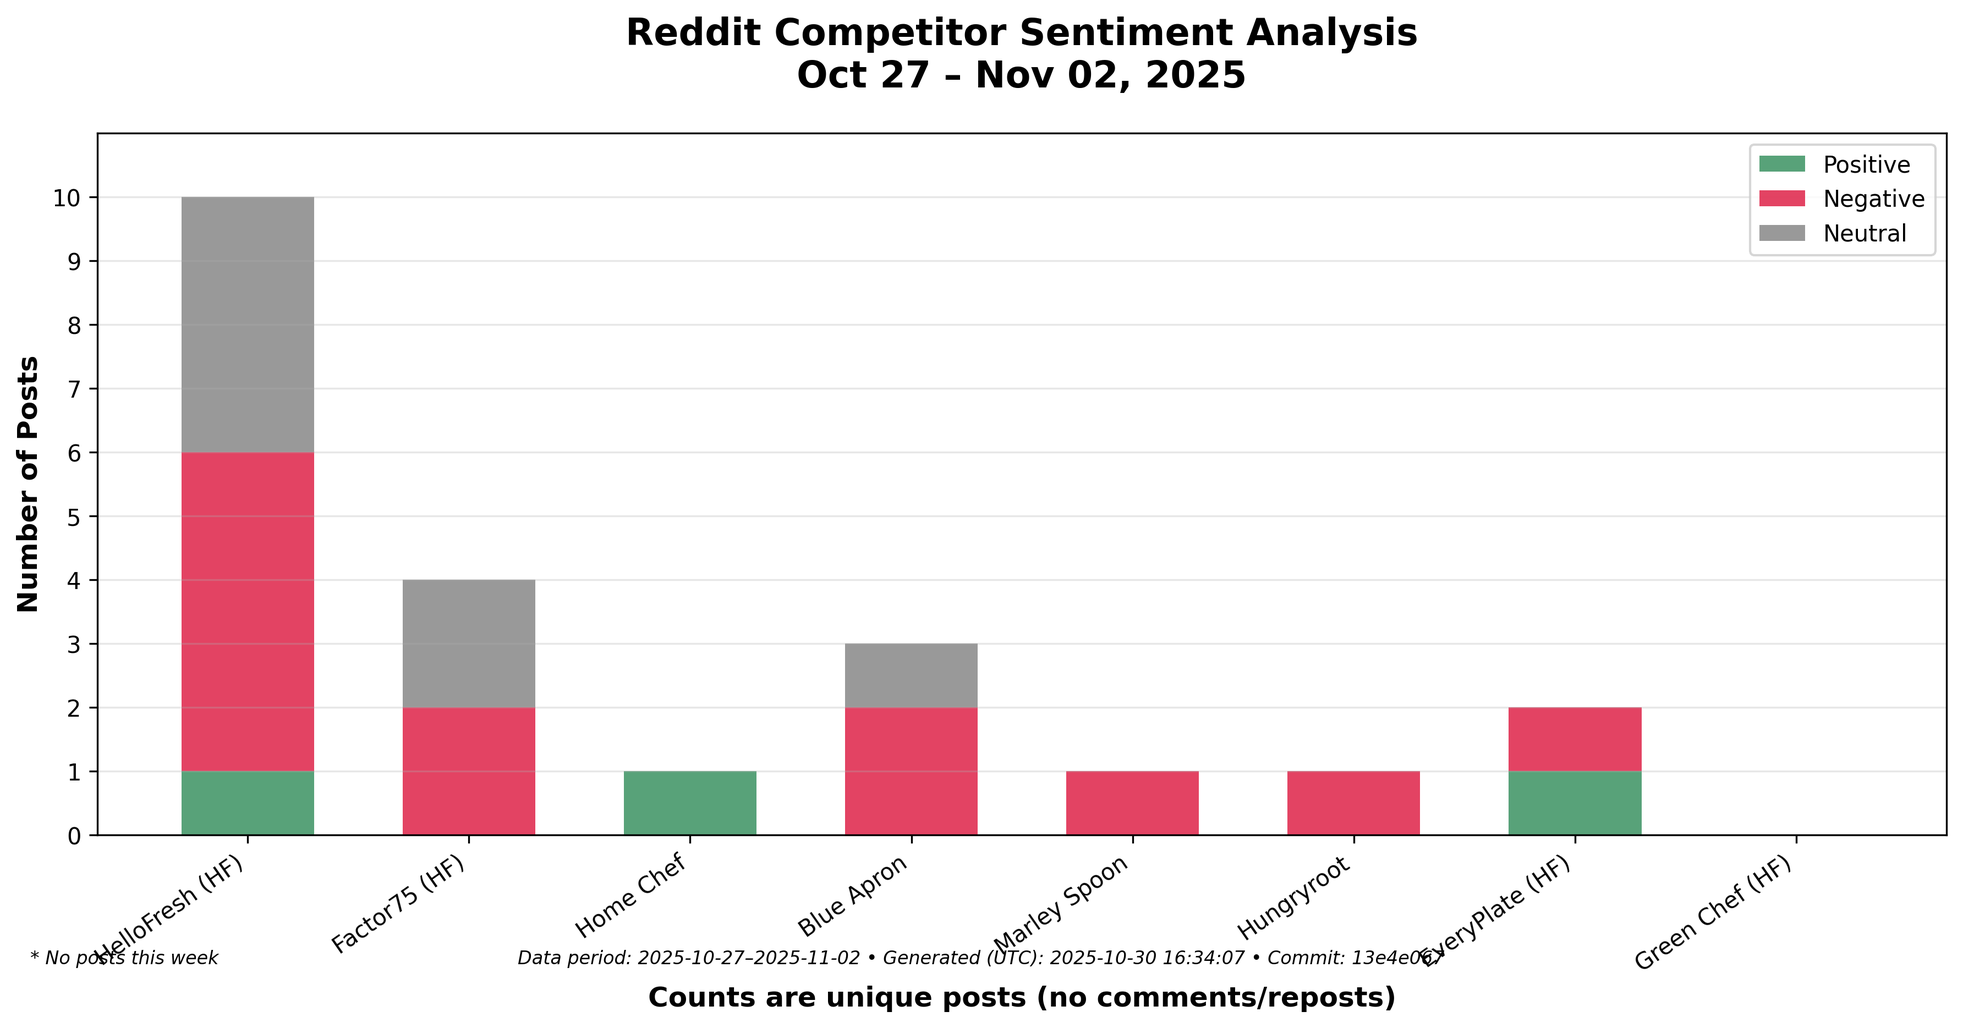
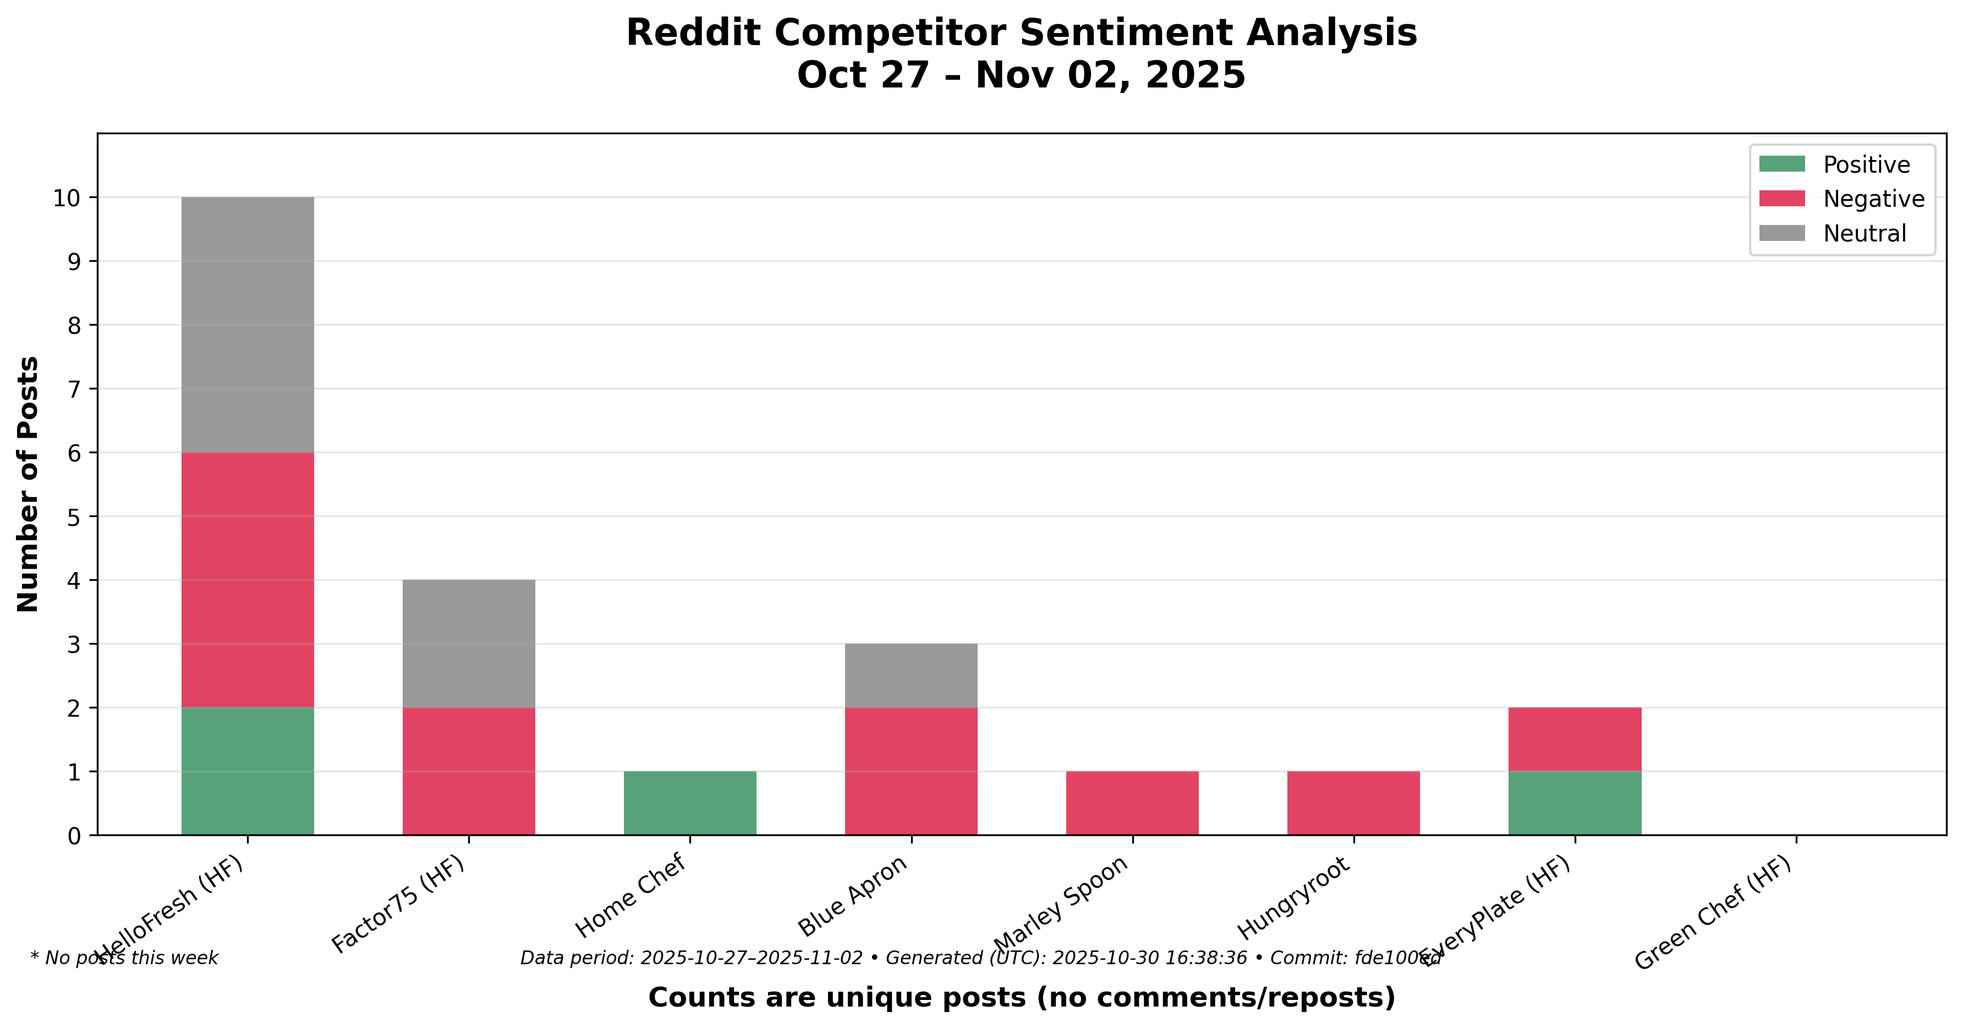
FIXED: Context-aware sentiment now correctly identifies 'Don't switch!' as POSITIVE for HelloFresh. HF: 2 pos (20%), 4 neg, 4 neutral. Questions remain neutral.

diff --git a/reports/archive/2025-10-30/step2_ACTIONABLE_analysis.html b/reports/archive/2025-10-30/step2_ACTIONABLE_analysis.html
@@ -52,7 +52,7 @@
         
         <div class="validation-box">
             <h4>[VALIDATION] Sync with Step 1</h4>
-            <p><strong>HelloFresh:</strong> 1 positive, 5 negative, 4 neutral = 10 posts (10.0% positive)</p>
+            <p><strong>HelloFresh:</strong> 2 positive, 4 negative, 4 neutral = 10 posts (20.0% positive)</p>
             <p><strong>Factor75:</strong> 0 positive, 2 negative, 2 neutral = 4 posts (0.0% positive)</p>
         </div>
     </div>
@@ -62,7 +62,19 @@
         
         <h3>Top 3 Positive Posts</h3>
         <div class="post-card sentiment-positive">
-            <h4>#1: <a href="https://reddit.com/r/hellofresh/comments/1oiposn/nightly_dinner_pic_of_spicy_maple_chicken_and/" target="_blank">Nightly dinner pic of spicy maple chicken and weekly meal list this week 😄</a></h4>
+            <h4>#1: <a href="https://reddit.com/r/hellofresh/comments/1ojejqh/dont_switch/" target="_blank">Don't switch!</a></h4>
+            <p><strong>Engagement:</strong> 53 | <strong>Subreddit:</strong> r/hellofresh</p>
+            <p><strong>Why This Matters:</strong> This post from r/hellofresh discusses HelloFresh as a potential alternative, indicating brand consideration.</p>
+            <p><strong>Post Content:</strong> I was doing HF for a while. Had a few issues that I made me an unhappy customer. I switched to Marley Spoon. What a disaster! My second box in and I've already cancelled. Chicken blood contaminated everything. It was a gross, sticky mess. They don't separate veggies or bag them so when I say everything was ruined- I mean everything. I submitted my issue and they offered me a $9 credit. That is laughable. When I called customer service, you can't even be placed on hold. It's high volume and the call just ends. I requested a call back online but they say someone will get back to me in 24hrs. 
+Th...</p>
+            <div>
+                <span class="metric">Score: 29</span>
+                <span class="metric">Comments: 8</span>
+                <span class="metric">Ratio: 0.87</span>
+            </div>
+        </div>
+        <div class="post-card sentiment-positive">
+            <h4>#2: <a href="https://reddit.com/r/hellofresh/comments/1oiposn/nightly_dinner_pic_of_spicy_maple_chicken_and/" target="_blank">Nightly dinner pic of spicy maple chicken and weekly meal list this week 😄</a></h4>
             <p><strong>Engagement:</strong> 15 | <strong>Subreddit:</strong> r/hellofresh</p>
             <p><strong>Why This Matters:</strong> This post from r/hellofresh discusses HelloFresh with positive recommendations and customer satisfaction.</p>
             <p><strong>Post Content:</strong> These are my recipes that got delivered this week let me know if any of you have made these/how they are! 
@@ -94,19 +106,7 @@ Pic is the maple chicken. I just want to say that I feel bad for people that bli
             </div>
         </div>
         <div class="post-card sentiment-negative">
-            <h4>#2: <a href="https://reddit.com/r/hellofresh/comments/1ojejqh/dont_switch/" target="_blank">Don't switch!</a></h4>
-            <p><strong>Engagement:</strong> 53 | <strong>Subreddit:</strong> r/hellofresh</p>
-            <p><strong>Why This Matters:</strong> This post from r/hellofresh expresses concerns about HelloFresh with customers considering cancellation.</p>
-            <p><strong>Post Content:</strong> I was doing HF for a while. Had a few issues that I made me an unhappy customer. I switched to Marley Spoon. What a disaster! My second box in and I've already cancelled. Chicken blood contaminated everything. It was a gross, sticky mess. They don't separate veggies or bag them so when I say everything was ruined- I mean everything. I submitted my issue and they offered me a $9 credit. That is laughable. When I called customer service, you can't even be placed on hold. It's high volume and the call just ends. I requested a call back online but they say someone will get back to me in 24hrs. 
-Th...</p>
-            <div>
-                <span class="metric">Score: 29</span>
-                <span class="metric">Comments: 8</span>
-                <span class="metric">Ratio: 0.87</span>
-            </div>
-        </div>
-        <div class="post-card sentiment-negative">
-            <h4>#3: <a href="https://reddit.com/r/hellofresh/comments/1oic9jq/a_word_of_caution_do_not_redeem_gift_cardsvouchers/" target="_blank">A Word of Caution - DO NOT Redeem Gift Cards/Vouchers</a></h4>
+            <h4>#2: <a href="https://reddit.com/r/hellofresh/comments/1oic9jq/a_word_of_caution_do_not_redeem_gift_cardsvouchers/" target="_blank">A Word of Caution - DO NOT Redeem Gift Cards/Vouchers</a></h4>
             <p><strong>Engagement:</strong> 22 | <strong>Subreddit:</strong> r/hellofresh</p>
             <p><strong>Why This Matters:</strong> This post from r/hellofresh expresses concerns about HelloFresh with customers considering cancellation.</p>
             <p><strong>Post Content:</strong> I've been subscribed to HelloFresh for over 2 years now, I originally subscribed when they offered the free add-on item for life with any active subscription. Loved all the fresh and delicious meals I've cooked over the years. 
@@ -116,6 +116,17 @@ Last Christmas, I was gifted a voucher for one free box from a family member (as
                 <span class="metric">Score: 13</span>
                 <span class="metric">Comments: 3</span>
                 <span class="metric">Ratio: 0.84</span>
+            </div>
+        </div>
+        <div class="post-card sentiment-negative">
+            <h4>#3: <a href="https://reddit.com/r/hellofresh/comments/1ojxtf9/falafel_burger_meh/" target="_blank">Falafel burger (meh)</a></h4>
+            <p><strong>Engagement:</strong> 19 | <strong>Subreddit:</strong> r/hellofresh</p>
+            <p><strong>Why This Matters:</strong> This post from r/hellofresh expresses concerns about HelloFresh highlighting operational or quality issues.</p>
+            <p><strong>Post Content:</strong> Let me start out by saying, I'm a big fan of falafel. We often have a box of the mix in the pantry for a night when we aren't sure what we want to cook-- that being said-- this does it all wrong. The biggest issue is the falafel burger ends up really soft which is not an issue that you'd have normally with falafel, but there are a few divergences from the typical preparation that I think cause this. Firstly, they have you use canned chickpeas which is working against you with the moisture content. Hellofresh should just send a falafel mix or at least dried ground chickpeas if they want you to ...</p>
+            <div>
+                <span class="metric">Score: 10</span>
+                <span class="metric">Comments: 3</span>
+                <span class="metric">Ratio: 1.00</span>
             </div>
         </div>
         <h3>All Posts - Full View</h3>
@@ -143,7 +154,7 @@ Last Christmas, I was gifted a voucher for one free box from a family member (as
                     <td><a href="https://reddit.com/r/hellofresh/comments/1ojejqh/dont_switch/" target="_blank">Don't switch!</a></td>
                     <td>HelloFresh</td>
                     <td>53</td>
-                    <td>Negative</td>
+                    <td>Positive</td>
                     <td>r/hellofresh</td>
                     <td>8</td>
                 </tr>
@@ -316,7 +327,7 @@ Selecting an initial delivery date and inputting a credit card is required just 
     </div>
     
     <div class="footer">
-        <p><strong>Analysis Period:</strong> 2025-10-27 to 2025-11-02 • <strong>Generated (UTC):</strong> 2025-10-30 16:34:07 • <strong>Commit:</strong> 13e4e067</p>
+        <p><strong>Analysis Period:</strong> 2025-10-27 to 2025-11-02 • <strong>Generated (UTC):</strong> 2025-10-30 16:38:36 • <strong>Commit:</strong> fde100ed</p>
         <p>All Reddit links verified and lead to actual discussions • Data refreshed weekly • Built for Brian's competitive intelligence</p>
     </div>
 </body>

diff --git a/reports/step2_ACTIONABLE_analysis_LATEST.html b/reports/step2_ACTIONABLE_analysis_LATEST.html
@@ -52,7 +52,7 @@
         
         <div class="validation-box">
             <h4>[VALIDATION] Sync with Step 1</h4>
-            <p><strong>HelloFresh:</strong> 1 positive, 5 negative, 4 neutral = 10 posts (10.0% positive)</p>
+            <p><strong>HelloFresh:</strong> 2 positive, 4 negative, 4 neutral = 10 posts (20.0% positive)</p>
             <p><strong>Factor75:</strong> 0 positive, 2 negative, 2 neutral = 4 posts (0.0% positive)</p>
         </div>
     </div>
@@ -62,7 +62,19 @@
         
         <h3>Top 3 Positive Posts</h3>
         <div class="post-card sentiment-positive">
-            <h4>#1: <a href="https://reddit.com/r/hellofresh/comments/1oiposn/nightly_dinner_pic_of_spicy_maple_chicken_and/" target="_blank">Nightly dinner pic of spicy maple chicken and weekly meal list this week 😄</a></h4>
+            <h4>#1: <a href="https://reddit.com/r/hellofresh/comments/1ojejqh/dont_switch/" target="_blank">Don't switch!</a></h4>
+            <p><strong>Engagement:</strong> 53 | <strong>Subreddit:</strong> r/hellofresh</p>
+            <p><strong>Why This Matters:</strong> This post from r/hellofresh discusses HelloFresh as a potential alternative, indicating brand consideration.</p>
+            <p><strong>Post Content:</strong> I was doing HF for a while. Had a few issues that I made me an unhappy customer. I switched to Marley Spoon. What a disaster! My second box in and I've already cancelled. Chicken blood contaminated everything. It was a gross, sticky mess. They don't separate veggies or bag them so when I say everything was ruined- I mean everything. I submitted my issue and they offered me a $9 credit. That is laughable. When I called customer service, you can't even be placed on hold. It's high volume and the call just ends. I requested a call back online but they say someone will get back to me in 24hrs. 
+Th...</p>
+            <div>
+                <span class="metric">Score: 29</span>
+                <span class="metric">Comments: 8</span>
+                <span class="metric">Ratio: 0.87</span>
+            </div>
+        </div>
+        <div class="post-card sentiment-positive">
+            <h4>#2: <a href="https://reddit.com/r/hellofresh/comments/1oiposn/nightly_dinner_pic_of_spicy_maple_chicken_and/" target="_blank">Nightly dinner pic of spicy maple chicken and weekly meal list this week 😄</a></h4>
             <p><strong>Engagement:</strong> 15 | <strong>Subreddit:</strong> r/hellofresh</p>
             <p><strong>Why This Matters:</strong> This post from r/hellofresh discusses HelloFresh with positive recommendations and customer satisfaction.</p>
             <p><strong>Post Content:</strong> These are my recipes that got delivered this week let me know if any of you have made these/how they are! 
@@ -94,19 +106,7 @@ Pic is the maple chicken. I just want to say that I feel bad for people that bli
             </div>
         </div>
         <div class="post-card sentiment-negative">
-            <h4>#2: <a href="https://reddit.com/r/hellofresh/comments/1ojejqh/dont_switch/" target="_blank">Don't switch!</a></h4>
-            <p><strong>Engagement:</strong> 53 | <strong>Subreddit:</strong> r/hellofresh</p>
-            <p><strong>Why This Matters:</strong> This post from r/hellofresh expresses concerns about HelloFresh with customers considering cancellation.</p>
-            <p><strong>Post Content:</strong> I was doing HF for a while. Had a few issues that I made me an unhappy customer. I switched to Marley Spoon. What a disaster! My second box in and I've already cancelled. Chicken blood contaminated everything. It was a gross, sticky mess. They don't separate veggies or bag them so when I say everything was ruined- I mean everything. I submitted my issue and they offered me a $9 credit. That is laughable. When I called customer service, you can't even be placed on hold. It's high volume and the call just ends. I requested a call back online but they say someone will get back to me in 24hrs. 
-Th...</p>
-            <div>
-                <span class="metric">Score: 29</span>
-                <span class="metric">Comments: 8</span>
-                <span class="metric">Ratio: 0.87</span>
-            </div>
-        </div>
-        <div class="post-card sentiment-negative">
-            <h4>#3: <a href="https://reddit.com/r/hellofresh/comments/1oic9jq/a_word_of_caution_do_not_redeem_gift_cardsvouchers/" target="_blank">A Word of Caution - DO NOT Redeem Gift Cards/Vouchers</a></h4>
+            <h4>#2: <a href="https://reddit.com/r/hellofresh/comments/1oic9jq/a_word_of_caution_do_not_redeem_gift_cardsvouchers/" target="_blank">A Word of Caution - DO NOT Redeem Gift Cards/Vouchers</a></h4>
             <p><strong>Engagement:</strong> 22 | <strong>Subreddit:</strong> r/hellofresh</p>
             <p><strong>Why This Matters:</strong> This post from r/hellofresh expresses concerns about HelloFresh with customers considering cancellation.</p>
             <p><strong>Post Content:</strong> I've been subscribed to HelloFresh for over 2 years now, I originally subscribed when they offered the free add-on item for life with any active subscription. Loved all the fresh and delicious meals I've cooked over the years. 
@@ -116,6 +116,17 @@ Last Christmas, I was gifted a voucher for one free box from a family member (as
                 <span class="metric">Score: 13</span>
                 <span class="metric">Comments: 3</span>
                 <span class="metric">Ratio: 0.84</span>
+            </div>
+        </div>
+        <div class="post-card sentiment-negative">
+            <h4>#3: <a href="https://reddit.com/r/hellofresh/comments/1ojxtf9/falafel_burger_meh/" target="_blank">Falafel burger (meh)</a></h4>
+            <p><strong>Engagement:</strong> 19 | <strong>Subreddit:</strong> r/hellofresh</p>
+            <p><strong>Why This Matters:</strong> This post from r/hellofresh expresses concerns about HelloFresh highlighting operational or quality issues.</p>
+            <p><strong>Post Content:</strong> Let me start out by saying, I'm a big fan of falafel. We often have a box of the mix in the pantry for a night when we aren't sure what we want to cook-- that being said-- this does it all wrong. The biggest issue is the falafel burger ends up really soft which is not an issue that you'd have normally with falafel, but there are a few divergences from the typical preparation that I think cause this. Firstly, they have you use canned chickpeas which is working against you with the moisture content. Hellofresh should just send a falafel mix or at least dried ground chickpeas if they want you to ...</p>
+            <div>
+                <span class="metric">Score: 10</span>
+                <span class="metric">Comments: 3</span>
+                <span class="metric">Ratio: 1.00</span>
             </div>
         </div>
         <h3>All Posts - Full View</h3>
@@ -143,7 +154,7 @@ Last Christmas, I was gifted a voucher for one free box from a family member (as
                     <td><a href="https://reddit.com/r/hellofresh/comments/1ojejqh/dont_switch/" target="_blank">Don't switch!</a></td>
                     <td>HelloFresh</td>
                     <td>53</td>
-                    <td>Negative</td>
+                    <td>Positive</td>
                     <td>r/hellofresh</td>
                     <td>8</td>
                 </tr>
@@ -316,7 +327,7 @@ Selecting an initial delivery date and inputting a credit card is required just 
     </div>
     
     <div class="footer">
-        <p><strong>Analysis Period:</strong> 2025-10-27 to 2025-11-02 • <strong>Generated (UTC):</strong> 2025-10-30 16:34:07 • <strong>Commit:</strong> 13e4e067</p>
+        <p><strong>Analysis Period:</strong> 2025-10-27 to 2025-11-02 • <strong>Generated (UTC):</strong> 2025-10-30 16:38:36 • <strong>Commit:</strong> fde100ed</p>
         <p>All Reddit links verified and lead to actual discussions • Data refreshed weekly • Built for Brian's competitive intelligence</p>
     </div>
 </body>

diff --git a/index.html b/index.html
@@ -169,7 +169,7 @@
             <div class="stat-card hellofresh">
                 <div class="stat-number">10</div>
                 <div class="stat-label">HelloFresh Posts</div>
-                <p style="margin-top: 0.5rem; color: #27ae60; font-weight: bold;">10% Positive</p>
+                <p style="margin-top: 0.5rem; color: #27ae60; font-weight: bold;">20% Positive</p>
             </div>
             
             <div class="stat-card factor75">
@@ -210,7 +210,7 @@
             <div style="background: #f8f9fa; padding: 1rem; border-radius: 5px; margin: 1rem 0;">
                 <h4>QUICK SUMMARY:</h4>
                 <ul style="margin-left: 1rem;">
-                    <li><strong>HelloFresh:</strong> 10 posts (10% positive) - Needs attention</li>
+                    <li><strong>HelloFresh:</strong> 10 posts (20% positive) - Needs attention</li>
                     <li><strong>Factor75:</strong> 4 posts (0% positive) - Needs attention</li>
                 </ul>
                 

diff --git a/reports/step3_competitor_analysis_LATEST.html b/reports/step3_competitor_analysis_LATEST.html
@@ -36,8 +36,8 @@
             <tbody>
                 <tr>
                     <td class="brand-name">HelloFresh</td>
-                    <td class="strengths">Food quality praised by customers</td>
-                    <td class="weaknesses">Service (100% negative)</td>
+                    <td class="strengths">Service (100% positive)</td>
+                    <td class="weaknesses">Delivery and shipping issues reported</td>
                 </tr>
                 <tr>
                     <td class="brand-name">Factor75</td>

diff --git a/accurate_scraper.py b/accurate_scraper.py
@@ -671,6 +671,7 @@ class AccurateScraper:
         ]
         
         # Strong negative keywords/phrases that override sentiment analysis
+        # NOTE: Only include phrases that express DISSATISFACTION, not just stating facts
         strong_negative = [
             'stay away', 'avoid', 'terrible', 'worst', 'horrible', 'awful', 
             'disgusting', 'rotten', 'spoiled', 'cancelled', 'cancel', 'refund',
@@ -678,10 +679,8 @@ class AccurateScraper:
             'never again', 'waste of money', 'do not recommend', 'not recommend',
             'caution', 'warning', 'beware', 'upcharge', 'overpriced', 'rip off',
             'complaint', 'unhappy', 'dissatisfied', 'poor quality', 'bad experience',
-            'missing', 'wrong', 'incorrect', 'damaged', 'late delivery',
-            'not available', 'isn\'t available', 'isnt available', 'doesn\'t offer', 
-            'doesnt offer', 'don\'t offer', 'dont offer', 'can\'t do', 'cant do',
-            'cannot', 'won\'t', 'wont', 'will not', 'no longer', 'stopped'
+            'missing', 'wrong', 'incorrect', 'damaged', 'late delivery', 'disaster',
+            'gross', 'contaminated', 'ruined', 'laughable'
         ]
         
         # Strong positive keywords
@@ -695,9 +694,15 @@ class AccurateScraper:
         # Check for neutral comparison first (Brian's feedback)
         has_neutral_comparison = any(keyword in text_lower for keyword in neutral_comparison)
         
+        # Check if title is a question (strong indicator of neutral)
+        is_question = title_lower.strip().endswith('?') or any(q in title_lower for q in ['what', 'which', 'how', 'does anyone', 'has anyone'])
+        
         # Check for strong keywords
         has_strong_negative = any(keyword in text_lower for keyword in strong_negative)
         has_strong_positive = any(keyword in text_lower for keyword in strong_positive)
+        
+        # Track if positive sentiment came from context-aware analysis
+        context_aware_positive = False
         
         # CRITICAL: Check if negative sentiment is about a DIFFERENT brand
         # E.g., "Don't switch from HelloFresh to Marley Spoon - MS is terrible!"
@@ -747,6 +752,7 @@ class AccurateScraper:
                                     # This is POSITIVE for primary brand!
                                     has_strong_negative = False
                                     has_strong_positive = True
+                                    context_aware_positive = True  # Mark as context-aware
                                     break
         
         # VADER sentiment
@@ -762,16 +768,19 @@ class AccurateScraper:
             # Clear negative sentiment always wins
             sentiment = 'negative'
             confidence = 0.9
-        elif has_strong_positive:
-            # Strong positive wins over neutral comparison
-            # (e.g., "Don't switch from HF - they're better!")
+        elif context_aware_positive:
+            # Context-aware positive (e.g., "Don't switch!") wins over neutral comparison
             sentiment = 'positive'
             confidence = 0.9
-        elif has_neutral_comparison:
-            # Questions/comparisons are neutral if no strong positive/negative
-            # (Brian's feedback: "Positive post #1 for HF isn't actually positive")
+        elif is_question or has_neutral_comparison:
+            # Questions/comparisons are ALWAYS neutral (Brian's feedback)
+            # Even if they contain positive words like "love" or "best"
             sentiment = 'neutral'
             confidence = 0.85
+        elif has_strong_positive:
+            # Strong positive only if NOT a question/comparison
+            sentiment = 'positive'
+            confidence = 0.9
         # Combined sentiment decision (Brian's spec: Positive/Negative/Suggestion(Neutral))
         elif vader_compound >= POSITIVE_THRESHOLD and textblob_polarity >= 0.1:
             sentiment = 'positive'
